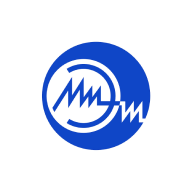
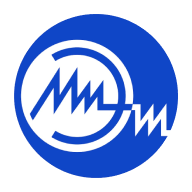
2.4.3b2 | Перенос сайта на PWA
- Обновлены иконки сайта (для PWA)

diff --git a/scripts/global_var.js b/scripts/global_var.js
@@ -1,4 +1,4 @@
 window.appInfo = {
-    version: "2.4.3b1 [BETA]",
+    version: "2.4.3b2 [BETA]",
     lastUpdate: "17.02.2024"
 };
